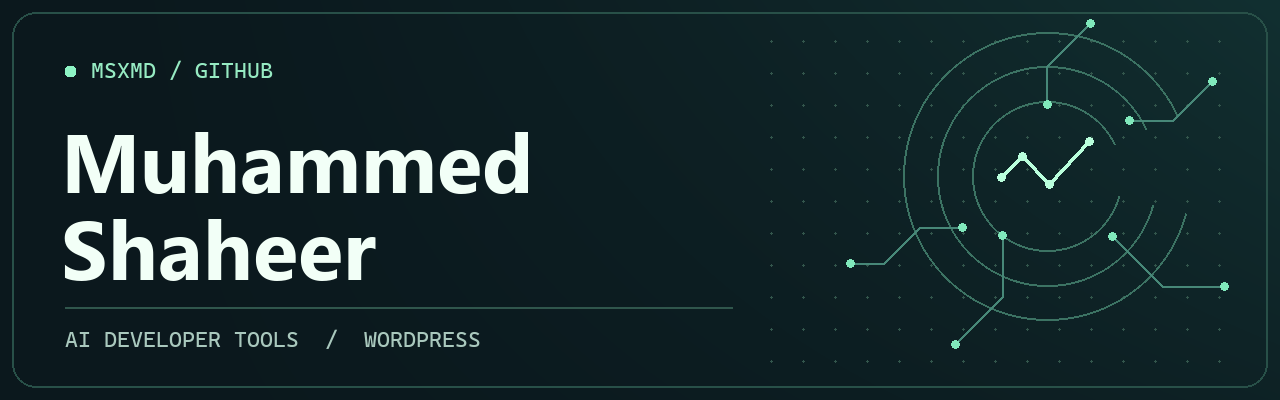
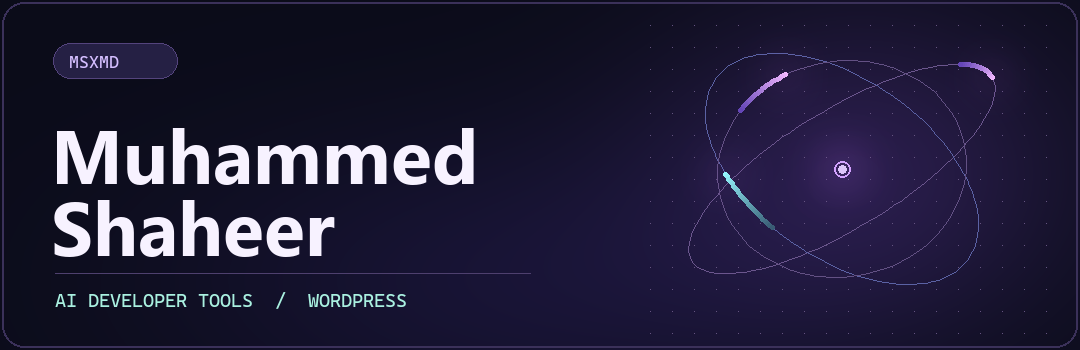
Redesign profile with animated header and project cards

diff --git a/README.md b/README.md
@@ -1,14 +1,21 @@
-![MSXMD profile banner with Muhammed Shaheer’s name and an abstract green circuit motif](assets/banner.png)
+<picture>
+  <source media="(prefers-reduced-motion: reduce)" srcset="assets/banner.png">
+  <img src="assets/orbit.gif" alt="Muhammed Shaheer · MSXMD · AI developer tools and WordPress">
+</picture>
 
-I build tools for AI-assisted development and WordPress. My projects focus on making everyday work easier to resume, debug, and maintain.
+I build tools that help developers pick up interrupted work, reuse fixes, and keep their workflows running.
 
-[MSXMD website](https://msxmd.com/) · [All public repositories](https://github.com/shaheer-00?tab=repositories)
+[**MSXMD**](https://msxmd.com/) · [**Public repositories**](https://github.com/shaheer-00?tab=repositories)
 
-## Selected projects
+## Open-source projects
 
-| Project | What it does |
-| :--- | :--- |
-| [**claude-adhd**](https://github.com/shaheer-00/claude-adhd) | Brings unfinished threads from earlier Claude Code sessions back into view so you can pick up where you left off. |
-| [**switchXprovider**](https://github.com/shaheer-00/switchXprovider) | Routes Claude Code requests through a local multi-provider proxy with failover and usage tracking. |
-| [**fixdex**](https://github.com/shaheer-00/fixdex) | Stores recurring errors and their fixes in local SQLite so Claude Code can recall a fix when the same error comes back. |
-| [**MSXMD Toolkit**](https://github.com/shaheer-00/msxmd-toolkit) | A modular WordPress plugin for admin styling, login branding, and site maintenance. |
+<table>
+  <tr>
+    <td width="50%"><a href="https://github.com/shaheer-00/claude-adhd"><img src="assets/claude-adhd.png" alt="claude-adhd — pick up unfinished Claude Code threads"></a></td>
+    <td width="50%"><a href="https://github.com/shaheer-00/switchXprovider"><img src="assets/switchxprovider.png" alt="switchXprovider — local Claude Code proxy with provider failover"></a></td>
+  </tr>
+  <tr>
+    <td width="50%"><a href="https://github.com/shaheer-00/fixdex"><img src="assets/fixdex.png" alt="fixdex — local memory for recurring errors and their fixes"></a></td>
+    <td width="50%"><a href="https://github.com/shaheer-00/msxmd-toolkit"><img src="assets/msxmd-toolkit.png" alt="MSXMD Toolkit — WordPress admin styling, login branding and maintenance"></a></td>
+  </tr>
+</table>
